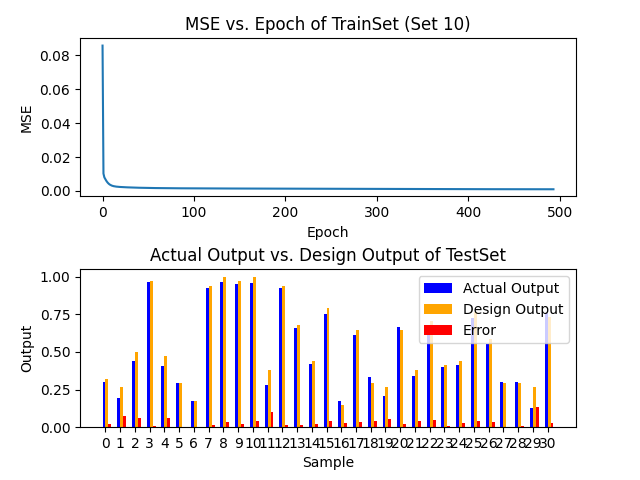
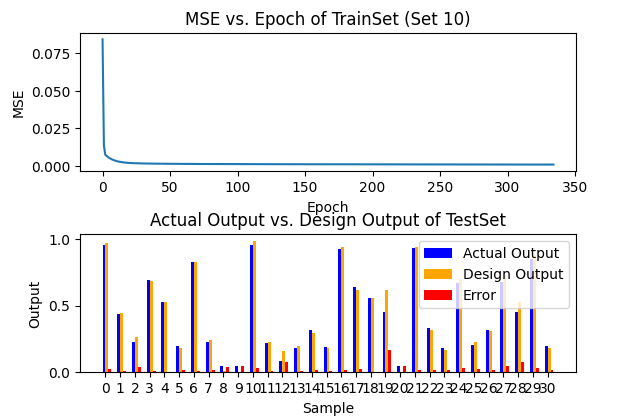
update code

diff --git a/CI_man.py b/CI_man.py
@@ -82,7 +82,7 @@ class NeuronNetwork:
             er /= len(input)
             keep_error.append(er)
             N += 1
-            print(f"Epoch = {N} | AV_Error = {er}")
+            # print(f"Epoch = {N} | AV_Error = {er}")
         
         plt.subplot(2, 1, 1)
         plt.plot(keep_error)
@@ -90,7 +90,7 @@ class NeuronNetwork:
         plt.xlabel('Epoch')
         plt.ylabel('MSE')
 
-    def test(self, input, design_output, type = "classification"):
+    def test(self, input, design_output, type = "classification", min_max=None):
         actual_output = []
         for i in input:
             self.feed_forward(i)
@@ -115,11 +115,28 @@ class NeuronNetwork:
             plt.ylabel('True Label')
             plt.title('Confusion Matrix' + f' (Set {self.set_Num})')
         else:
+            
             actual_output = [element[0] for element in actual_output]
             er = 0
+            print(f"\nPredicted vs. Actual Flood Levels (Set {self.set_Num}):")
+            print(f"{'Sample':<8}{'Predicted':<15}{'Actual':<15}{'Error':<10}")
+            print("-" * 45)
+
             for i in range(len(actual_output)):
-                er += np.sum((actual_output[i]-design_output[i])**2) / 2
+                pred = actual_output[i]
+                true = design_output[i] if not isinstance(design_output[i], (list, np.ndarray)) else design_output[i][0]
+                
+                # Denormalize
+                if min_max:
+                    min_val, max_val = min_max
+                    pred = pred * (max_val - min_val) + min_val
+                    true = true * (max_val - min_val) + min_val
+
+                error = abs(pred - true)
+                er += error ** 2 / 2
+                print(f"{i:<8}{pred:<15.4f}{true:<15.4f}{error:<10.4f}")
             er /= len(actual_output)
+               
             categories = [f"{element}" for element in range(len(design_output))]
             bar_width = 0.2
             index = range(len(categories))
@@ -137,7 +154,8 @@ def Read_Data(data_type = "regression"):
     if data_type == "regression":
         return Read_Data1()
     elif data_type == "classification":
-        return Read_Data2()
+        input, design_output = Read_Data2()
+        return input, design_output, None, None
 
 def Read_Data1(filename = 'Flood_dataset.txt'):
     data = []
@@ -145,7 +163,8 @@ def Read_Data1(filename = 'Flood_dataset.txt'):
     design_output = []
     with open(filename) as f:
         for line in f.readlines()[2:]:
-            data.append([float(element[:-1]) for element in line.split()])
+            values = list(map(float, line.strip().split()))
+            data.append(values)
     data = np.array(data)
     np.random.shuffle(data)
     min_vals = np.min(data, axis=0)
@@ -155,7 +174,7 @@ def Read_Data1(filename = 'Flood_dataset.txt'):
     for i in data:
         input.append(i[:-1])
         design_output.append(i[-1])
-    return input, design_output
+    return input, design_output, min_vals, max_vals
 
 def Read_Data2(filename = 'cross.txt'):
     data = []
@@ -210,7 +229,13 @@ if __name__ == "__main__":
             data_type = "classification"
             
     #  ทำ k-fold
-    input, design_output = Read_Data(data_type)
+    input, design_output, min_vals, max_vals = Read_Data(data_type)
+    if min_vals is not None and max_vals is not None:
+        print("min_vals[-1]:", min_vals[-1])
+        print("max_vals[-1]:", max_vals[-1])
+    else:
+        print("No min_vals and max_vals available for this data_type.")
+    
     input_size = len(input[0])
     output_size = len(design_output[0]) if isinstance(design_output[0], (list, np.ndarray)) else 1
     layer = layer = [input_size] + hidden_layers + [output_size]
@@ -218,16 +243,20 @@ if __name__ == "__main__":
     design_output_train, design_output_test = k_fold_validation(design_output, k)
 
     # สร้างโมเดลตั้งต้น
-    # nn = NN(layer[data_type], learning_rate, momentum_rate, activation_function) 
     nn = NeuronNetwork(layer, learning_rate, momentum_rate, activation_function) 
 
     # ทดสอบโมเดลแบบ cross validation
     for i in range(len(input_train)):
         plt.figure(i+1)
-        nn_copy = copy.deepcopy(nn)
-        nn_copy.set_Num = i + 1
-        nn_copy.train(input_train[i], design_output_train[i], Epoch=Max_Epoch, L_error=AV_error)
-        nn_copy.test(input_test[i], design_output_test[i], type=data_type)
+        NN_test = copy.deepcopy(nn)
+        NN_test.set_Num = i + 1
+        NN_test.train(input_train[i], design_output_train[i], Epoch=Max_Epoch, L_error=AV_error)
+        NN_test.test(
+            input_test[i],
+            design_output_test[i],
+            type=data_type,
+            min_max=(min_vals[-1], max_vals[-1]) if data_type == "regression" else None
+        )
         # ใช้ layout เดียวกันกับทุก figure
         plt.subplots_adjust(
             left=0.125,

diff --git a/test.py b/test.py
@@ -1,0 +1,16 @@
+with open('Flood_dataset.txt', 'r') as f:
+    lines = f.readlines()
+
+# ข้าม 2 บรรทัดแรก (ถ้ามี)
+data_lines = lines[2:]
+
+# แปลงข้อมูลเป็นตัวเลขทั้งหมด
+data = [list(map(int, line.strip().split())) for line in data_lines]
+
+# คำนวณค่า min และ max ของข้อมูลทั้งหมด
+all_values = [val for row in data for val in row]
+min_value = min(all_values)
+max_value = max(all_values)
+
+print("Minimum value in dataset:", min_value)
+print("Maximum value in dataset:", max_value)
